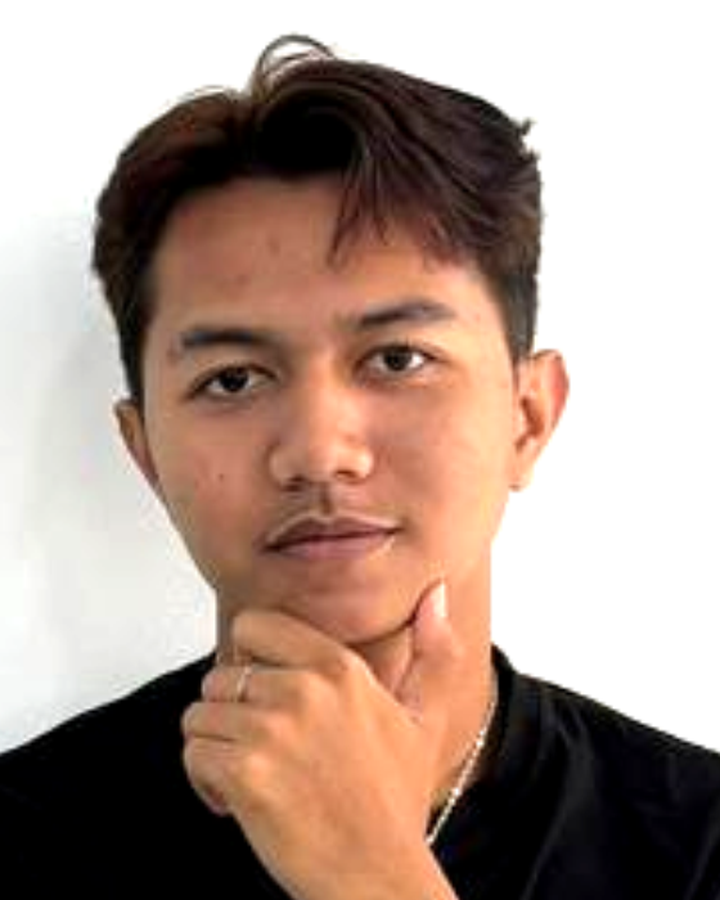
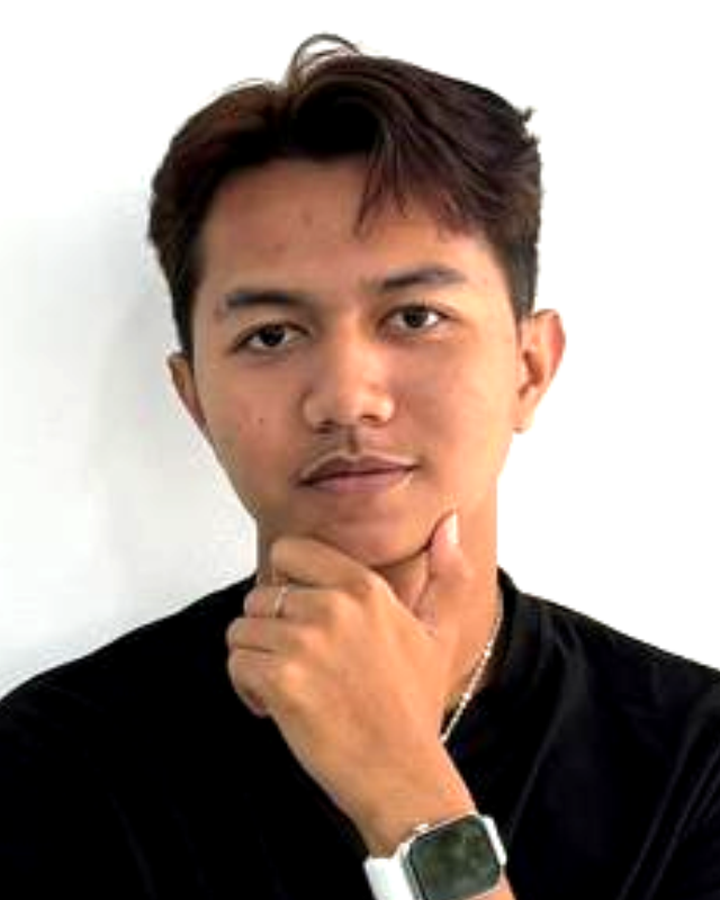
fix(capster): potret dipangkas lebih longgar (kepala-bahu-dada)
Pangkasan sebelumnya terlalu rapat ke wajah. Ketiga foto dipangkas
ulang dari berkas asli dengan bingkai lebih lega: ada ruang di atas
rambut, bahu penuh, dan kalung terlihat. Rasio 4:5 tetap. Daun hijau
di sudut Lukman berada di luar bingkai baru. Penanda versi ?v=7 -> ?v=8.

diff --git a/landing.html b/landing.html
@@ -545,19 +545,19 @@
       <h2 class="muncul">Our Capster</h2>
       <div class="kapster" id="kapsterDaftar">
         <div class="kapster-orang muncul">
-          <div class="avatar" aria-hidden="true"><picture><source srcset="assets/cena.webp?v=7" type="image/webp" /><img src="assets/cena.png?v=7" alt="Cena" loading="lazy" /></picture></div>
+          <div class="avatar" aria-hidden="true"><picture><source srcset="assets/cena.webp?v=8" type="image/webp" /><img src="assets/cena.png?v=8" alt="Cena" loading="lazy" /></picture></div>
           <div class="kapster-nama">Cena</div>
           <div class="kapster-peran">Capster</div>
           <button type="button" class="pil pil-garis" data-kapster="Cena">Pilih Cena</button>
         </div>
         <div class="kapster-orang muncul">
-          <div class="avatar" aria-hidden="true"><picture><source srcset="assets/lukman.webp?v=7" type="image/webp" /><img src="assets/lukman.png?v=7" alt="Lukman" loading="lazy" /></picture></div>
+          <div class="avatar" aria-hidden="true"><picture><source srcset="assets/lukman.webp?v=8" type="image/webp" /><img src="assets/lukman.png?v=8" alt="Lukman" loading="lazy" /></picture></div>
           <div class="kapster-nama">Lukman</div>
           <div class="kapster-peran">Capster</div>
           <button type="button" class="pil pil-garis" data-kapster="Lukman">Pilih Lukman</button>
         </div>
         <div class="kapster-orang muncul">
-          <div class="avatar" aria-hidden="true"><picture><source srcset="assets/wanda.webp?v=7" type="image/webp" /><img src="assets/wanda.png?v=7" alt="Wanda" loading="lazy" /></picture></div>
+          <div class="avatar" aria-hidden="true"><picture><source srcset="assets/wanda.webp?v=8" type="image/webp" /><img src="assets/wanda.png?v=8" alt="Wanda" loading="lazy" /></picture></div>
           <div class="kapster-nama">Wanda</div>
           <div class="kapster-peran">Capster</div>
           <button type="button" class="pil pil-garis" data-kapster="Wanda">Pilih Wanda</button>
@@ -816,8 +816,8 @@
 
     function gambarKapster(batang, nama) {
       return '<picture>'
-           + '<source srcset="' + batang + '.webp?v=7" type="image/webp" />'
-           + '<img src="' + batang + '.png?v=7" alt="' + esc(nama) + '" loading="lazy" />'
+           + '<source srcset="' + batang + '.webp?v=8" type="image/webp" />'
+           + '<img src="' + batang + '.png?v=8" alt="' + esc(nama) + '" loading="lazy" />'
            + '</picture>';
     }
 

diff --git a/pos.html b/pos.html
@@ -2459,8 +2459,8 @@
         /* WebP dulu, PNG sebagai cadangan: Safari baru mengenal WebP sejak
            iOS 14, dan iPad kasir yang lebih tua harus tetap melihat wajahnya. */
         const avatarHtml = foto
-          ? `<picture><source srcset="${foto}.webp?v=7" type="image/webp" />`
-            + `<img src="${foto}.png?v=7" alt="${escapeHtml(c.name)}" loading="lazy" /></picture>`
+          ? `<picture><source srcset="${foto}.webp?v=8" type="image/webp" />`
+            + `<img src="${foto}.png?v=8" alt="${escapeHtml(c.name)}" loading="lazy" /></picture>`
           : escapeHtml(initial);
         const card = document.createElement('div');
         card.className = `capster-card ${isSel ? 'is-selected' : ''}`;

diff --git a/rekap.html b/rekap.html
@@ -3063,7 +3063,7 @@
               <div class="capster-avatar-sm">${(() => {
                 const foto = { "cena": "assets/cena", "lukman": "assets/lukman", "wanda": "assets/wanda" }[(name || "").toLowerCase().trim()];
                 return foto
-                  ? `<picture><source srcset="${foto}.webp?v=7" type="image/webp" /><img src="${foto}.png?v=7" alt="${name}" loading="lazy" /></picture>`
+                  ? `<picture><source srcset="${foto}.webp?v=8" type="image/webp" /><img src="${foto}.png?v=8" alt="${name}" loading="lazy" /></picture>`
                   : name.charAt(0).toUpperCase();
               })()}</div>
               <div>

diff --git a/capster.html b/capster.html
@@ -949,8 +949,8 @@
       const capKey = (me.name || '').toLowerCase().trim();
       if (FOTO_KAPSTER[capKey]) {
         $('avatar').innerHTML = '<picture>'
-          + '<source srcset="' + FOTO_KAPSTER[capKey] + '.webp?v=7" type="image/webp" />'
-          + '<img src="' + FOTO_KAPSTER[capKey] + '.png?v=7" alt="' + (me.name || '') + '" />'
+          + '<source srcset="' + FOTO_KAPSTER[capKey] + '.webp?v=8" type="image/webp" />'
+          + '<img src="' + FOTO_KAPSTER[capKey] + '.png?v=8" alt="' + (me.name || '') + '" />'
           + '</picture>';
       } else {
         $('avatar').textContent = me.name.charAt(0).toUpperCase();
